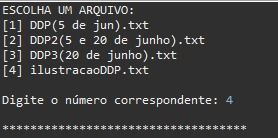
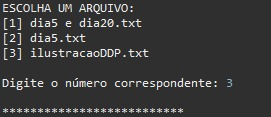
Upgrade na leitura, e criação de arquivos

Changed region(s): [[0.0, 0.0, 1.0, 0.5641], [0.0, 0.6667, 0.8561, 0.7949], [0.0, 0.8974, 0.8856, 0.9744]]

diff --git a/src/application/Program.java b/src/application/Program.java
@@ -1,8 +1,10 @@
 package application;
 
 import java.io.BufferedReader;
+import java.io.BufferedWriter;
 import java.io.File;
 import java.io.FileReader;
+import java.io.FileWriter;
 import java.io.IOException;
 import java.util.ArrayList;
 import java.util.InputMismatchException;
@@ -10,14 +12,14 @@ import java.util.List;
 import java.util.Locale;
 import java.util.Scanner;
 
-import entities.RelatorioPagamentos;
+import entities.Pagamento;
 
 public class Program
 {
 	public static void main(String[] args){
 		Locale.setDefault(Locale.US);
 		Scanner sc = new Scanner(System.in);
-		List<RelatorioPagamentos> list = new ArrayList<>();
+		List<Pagamento> list = new ArrayList<>();
 		
 		String localDoPasta = "C:\\temp\\dadosDePagamento"; 
 		
@@ -34,53 +36,80 @@ public class Program
 			System.out.println();
 			System.out.print("Digite o número correspondente: ");
 			int escolha = sc.nextInt();
-		
+				
 			File caminho = files[escolha - 1];
 			
-			System.out.println();
+			boolean addFile = new File(localDoPasta + "//Relatorio").mkdir();
+			String addTXT = localDoPasta + "//Relatorio//resultado.txt";
+			
 			
 			try(BufferedReader br = new BufferedReader(new FileReader(caminho))){
 				String line = br.readLine();
 				
 				while(line != null) {
 					String[] campos = line.split(", ");
-					double pagamento = Double.parseDouble(campos[0]);
-					double conducao5 = Double.parseDouble(campos[1]);
-					double caixinhaTotal = Double.parseDouble(campos[2]);
-					double caixinhaConta = Double.parseDouble(campos[3]);
-					double caixinhaEspecie = Double.parseDouble(campos[4]);
 					
-					RelatorioPagamentos rp = new RelatorioPagamentos(caixinhaTotal, caixinhaConta, caixinhaEspecie, conducao5,  pagamento);
-					list.add(rp);				
+				    Double valorTotal = Double.parseDouble(campos[0]);
+					int dia = Integer.parseInt(campos[1]);
+					
+					Pagamento p = new Pagamento(valorTotal, dia);
+					list.add(p);
+					line = br.readLine();
+				}
+				try(BufferedWriter bw = new BufferedWriter(new FileWriter(addTXT))){
+					double pgORvl = 0.0;
+					double cond = 0.0;
+					double cx = 0.0;
+					
+					for(Pagamento p : list) {
+						bw.write("**************************");
+						bw.newLine();
+						bw.write("DIA " + p.getDia());
+						bw.newLine();
+						bw.write("Vale/Pagamento: " + p.getPagamento(p.getCaixinha()));
+						bw.newLine();
+						bw.write("Condução: " + p.getConducao());
+						bw.newLine(); bw.newLine();
+						bw.write("Caixinha: " + p.getCaixinha());
+						bw.newLine();
+						bw.write("Total recebido: " + p.getValorTotal());
+						bw.newLine();bw.newLine();
+						
+						pgORvl += p.getPagamento(p.getCaixinha()); 
+						cond += p.getConducao();
+						cx += p.getCaixinha();
+						
+						bw.write("**************************");
+						bw.newLine();
+						bw.write("Pg/Vl. " + String.format("%.0f", pgORvl) 
+								+ " + cx." + String.format("%.0f", cx) 
+								+ " + condução." + String.format("%.0f", cond));
+						bw.newLine();
+						bw.write("**************************");
+					}
+					
+				}catch(IOException e) {
+					System.out.println("Erro na saida: " + e.getMessage());
+				}
+			}catch(IOException e) {
+				System.out.println("Erro na leitura: " + e.getMessage());
+			}
+			
+			try(BufferedReader br = new BufferedReader(new FileReader(addTXT))){
+				String line = br.readLine();
+				while(line != null) {
+					System.out.println(line);
 					line = br.readLine();
 				}
 				
-				for(RelatorioPagamentos rp : list) {
-					System.out.println(rp);
-					System.out.println();
-				}
-				double sum = 0.0;
-				
-				for(RelatorioPagamentos rp : list) {
-					sum += rp.total();
-				}
-				System.out.println("***********************************");
-				System.out.println("TOTAL MENSAL: " + sum);
-				System.out.println("***********************************");
-				
 			}catch(IOException e) {
-				System.out.println("Erro na leitura: " + e.getMessage());
-			}catch(Exception e) {
-				e.printStackTrace();
+				System.out.println("Falha na leitura: " + e.getMessage());
 			}
 		}catch(ArrayIndexOutOfBoundsException e) {
-			System.out.println("Entrada escolhida inexistente!");
+			System.out.println("Documento selecionado não existe.");
 		}catch(InputMismatchException e) {
-			System.out.println("Caractere inválido!");
+			System.out.println("Valor digitado incompatível.");
 		}
-		
-		
-		
 		sc.close();
 	}
 

diff --git a/src/entities/Pagamento.java b/src/entities/Pagamento.java
@@ -1,0 +1,57 @@
+package entities;
+
+public class Pagamento {
+	private Double valorTotal;
+	private Integer dia;
+	
+	public Pagamento() {
+		
+	}
+	public Pagamento(Double valorTotal, Integer dia) {
+		this.valorTotal = valorTotal;
+		this.dia = dia;
+	}
+	public Double getValorTotal() {
+		return valorTotal;
+	}
+	public void setValorTotal(Double valorTotal) {
+		this.valorTotal = valorTotal;
+	}
+	public Integer getDia() {
+		return dia;
+	}
+	public void setDia(Integer dia) {
+		this.dia = dia;
+	}
+
+	public Double getCaixinha() {
+		double caixinha = 0.0;
+		
+		if(dia == 5) {
+			caixinha = valorTotal - 1190.0 - 120.0;
+		}
+		if(dia == 20) {
+			caixinha = valorTotal - 865.0 - 160.0;
+		}
+		return caixinha;
+	}
+	
+	public Double getPagamento(Double caixinha) {
+		double pagamento = 0.0;
+		if(dia == 5) {
+			pagamento = valorTotal - caixinha - 120.00;
+		}
+		if(dia == 20) {
+			pagamento = valorTotal - caixinha - 160.00;
+		}
+		return pagamento;
+	}
+	
+	public Double getConducao() {
+		double caixinha = getCaixinha();
+		double pagamento = getPagamento(caixinha);
+		double conducao = valorTotal - pagamento - caixinha;
+		return conducao;
+	}
+	
+}
